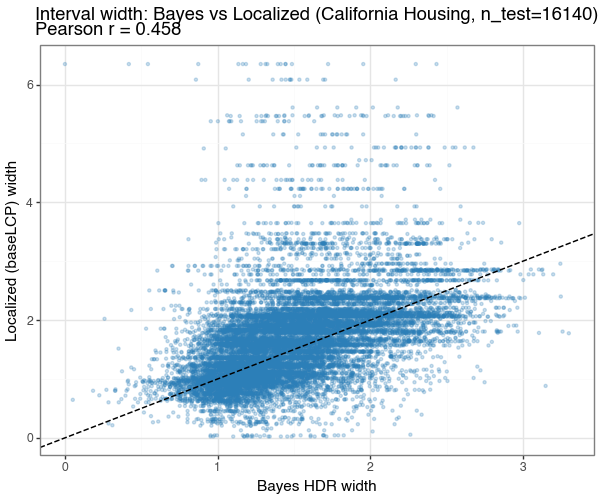
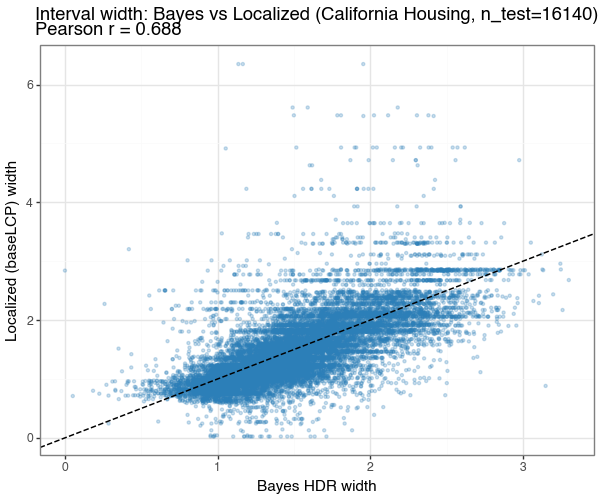
post is ready

diff --git a/_rmd/extra_conformal/conformal.py b/_rmd/extra_conformal/conformal.py
@@ -6,6 +6,7 @@ Conformal utility functions
 import numpy as np
 from typing import Callable, Any
 from scipy.optimize import brentq
+from sklearn.preprocessing import StandardScaler
 from .utils import check_callable_method, check_named_args, LocalizedKernelCDF
 
 
@@ -359,17 +360,29 @@ class score_localized_regression:
         f_theta: Any,
         h_grid: np.ndarray | None = None,
         random_state: int | None = None,
+        use_yhat: bool | str = False,
+        normalize: bool = True,
     ) -> None:
         """
         Parameters
         ----------
-        f_theta : fitted mean estimator with a .predict(X) method.
-        h_grid  : array of bandwidths to search over.  None => auto from data.
+        f_theta   : fitted mean estimator with a .predict(X) method.
+        h_grid    : array of bandwidths to search over.  None => auto from data.
+        use_yhat  : controls the kernel feature space.
+                    False      – use raw X (original covariates).
+                    True / 'replace' – replace X with scalar yhat.
+                    'append'   – append yhat as an extra column to X.
+        normalize : if True (default), apply a StandardScaler to the feature
+                    matrix before passing to the kernel.  The RBF kernel
+                    assumes equal variance across dimensions, so normalizing
+                    is important whenever use_yhat=False or 'append'.
         """
         check_callable_method(f_theta, 'predict')
         self.f_theta = f_theta
         self.h_grid = h_grid
         self.random_state = random_state
+        self.use_yhat = use_yhat
+        self.normalize = normalize
         self._kde = LocalizedKernelCDF(h_grid=h_grid, random_state=random_state)
 
     # ------------------------------------------------------------------
@@ -384,18 +397,34 @@ class score_localized_regression:
         2. Select h* via LOO NW on V
         3. Compute LOO PIT scores tilde_V_i = F_{-i}(V_i | X_i; h*)
 
-        Stores h*, X_cal, V_cal on self for use in invert_score.
+        Stores h*, X_cal (or yhat_cal), V_cal on self for use in invert_score.
         """
         mu = self.f_theta.predict(x)
         V = np.abs(y - mu)  # base NCS
 
+        # Build feature matrix according to use_yhat mode
+        yhat_col = mu.reshape(-1, 1)
+        if self.use_yhat in (True, 'replace'):
+            feat = yhat_col
+        elif self.use_yhat == 'append':
+            feat = np.hstack([x, yhat_col])
+        else:  # False
+            feat = x
+
+        # Normalize so RBF kernel treats all dimensions equally
+        if self.normalize:
+            self._feat_scaler = StandardScaler().fit(feat)
+            feat = self._feat_scaler.transform(feat)
+        else:
+            self._feat_scaler = None
+
         # Step A: bandwidth selection
-        self.h_star_ = self._kde.select_bandwidth(x, V)
+        self.h_star_ = self._kde.select_bandwidth(feat, V)
         # Step B: LOO PIT scores
-        pit = self._kde.loo_pit_scores(x, V, self.h_star_)
+        pit = self._kde.loo_pit_scores(feat, V, self.h_star_)
 
         # Cache calibration data for test-time inversion
-        self._X_cal = x
+        self._X_cal = feat
         self._V_cal = V
 
         return pit
@@ -413,8 +442,17 @@ class score_localized_regression:
         Returns (n_test, 2) array of [lower, upper] bounds.
         """
         mu_new = self.f_theta.predict(x)
+        yhat_col_new = mu_new.reshape(-1, 1)
+        if self.use_yhat in (True, 'replace'):
+            feat_new = yhat_col_new
+        elif self.use_yhat == 'append':
+            feat_new = np.hstack([x, yhat_col_new])
+        else:
+            feat_new = x
+        if self._feat_scaler is not None:
+            feat_new = self._feat_scaler.transform(feat_new)
         # Kernel weights from test points to calibration points
-        weights = self._kde.eval_cdf(x, self._X_cal, self._V_cal, self.h_star_)
+        weights = self._kde.eval_cdf(feat_new, self._X_cal, self._V_cal, self.h_star_)
         # Invert at the calibrated quantile level to get per-test tau
         tau = self._kde.invert_cdf(weights, self._V_cal, qhat)
         lower = mu_new - tau

diff --git a/_rmd/extra_conformal/post_figures.py b/_rmd/extra_conformal/post_figures.py
@@ -1107,11 +1107,14 @@ if any(t in targets for t in ('local_coverage', 'local_width', 'local_examples',
     mean_mdl_l.fit(X_tr_l, y_tr_l)
 
     # Fit localized conformal (bandwidth selection + LOO PIT happen inside gen_score)
+    # Features: X concatenated with yhat (normalized before kernel computation)
     cp_l = conformal_sets(
         f_theta=mean_mdl_l,
         score_fun=score_localized_regression,
         alpha=alpha_l,
         upper=True,
+        use_yhat='append',
+        normalize=True,
     )
     cp_l.fit(x=X_ca_l, y=y_ca_l)
 
@@ -1144,6 +1147,38 @@ if any(t in targets for t in ('local_coverage', 'local_width', 'local_examples',
     tau_b_l = cp_b_l.predict(X_te_l)    # (n_test, 2)
     finite_b_l = np.isfinite(tau_b_l[:, 0]) & np.isfinite(tau_b_l[:, 1])
     width_b_l = np.where(finite_b_l, tau_b_l[:, 1] - tau_b_l[:, 0], np.nan)
+
+    # ---- Decile coverage table: Bayes HDR vs Localized --------------------
+    decile_edges_l = np.quantile(y_te_l, np.linspace(0, 1, 11))
+    dlabels_l = [f'[{decile_edges_l[i]:.2f},{decile_edges_l[i+1]:.2f})' for i in range(10)]
+    dlabels_l[-1] = dlabels_l[-1].replace(')', ']')
+    bins_l = np.digitize(y_te_l, decile_edges_l[1:-1])
+    covered_b_l = np.where(
+        finite_b_l,
+        (y_te_l >= tau_b_l[:, 0]) & (y_te_l <= tau_b_l[:, 1]),
+        False,
+    )
+    dec_rows = []
+    for d in range(10):
+        mask_d = bins_l == d
+        dec_rows.append({
+            'Decile': f'D{d+1}  {dlabels_l[d]}',
+            'n': int(mask_d.sum()),
+            'Bayes_cov':  f'{covered_b_l[mask_d].mean():.3f}',
+            'Bayes_w':    f'{np.nanmean(width_b_l[mask_d]):.3f}',
+            'Local_cov':  f'{covered_l[mask_d].mean():.3f}',
+            'Local_w':    f'{width_l[mask_d].mean():.3f}',
+        })
+    dec_rows.append({
+        'Decile': 'Overall',
+        'n': len(y_te_l),
+        'Bayes_cov':  f'{covered_b_l.mean():.3f}',
+        'Bayes_w':    f'{np.nanmean(width_b_l):.3f}',
+        'Local_cov':  f'{covered_l.mean():.3f}',
+        'Local_w':    f'{width_l.mean():.3f}',
+    })
+    print('\n  Decile table: Bayes HDR vs Localized (X+yhat)')
+    print(pd.DataFrame(dec_rows).to_string(index=False))
 
     # ---- Figure 7a: Width distribution ------------------------------------
     if 'local_width' in targets:
@@ -1263,6 +1298,7 @@ if any(t in targets for t in ('local_coverage', 'local_width', 'local_examples',
                 cp_i = conformal_sets(
                     f_theta=m_i, score_fun=score_localized_regression,
                     alpha=alpha_l, upper=True,
+                    use_yhat='append', normalize=True,
                 )
                 cp_i.fit(x=Xca_i, y=yca_i)
                 tau_i = cp_i.predict(Xte_i)

diff --git a/_posts/2025-12-05-conformal.md b/_posts/2025-12-05-conformal.md
@@ -360,7 +360,7 @@ In practice, there are at least three common ways to obtain \\(\hat{\sigma}(x)\\
 
 This post uses the third option because it is simple, model-agnostic, and works with any base regressor that has a `predict` method. A ridge or gradient boosting regressor is a reasonable second-stage choice for the auxiliary scale model.
 
-In practice, the second-stage target is often one of three transforms of first-stage errors: \(|e_i|\), \(e_i^2\), or \(\log(e_i^2+\varepsilon)\), where \(e_i = y_i-\hat{f}(x_i)\). These are all monotone surrogates of local noise scale and therefore carry similar information about where uncertainty is high or low. Importantly, studentized conformal is scale-equivariant: if \(\hat{\sigma}(x)\) is off by a constant factor \(c>0\), then scores \(|e|/\hat{\sigma}(x)\) are rescaled by \(1/c\), and the calibrated quantile \(\hat{q}\) rescales by the same factor. The final interval width \(\hat{q}\cdot\hat{\sigma}(x)\) is therefore unchanged up to this global constant, so getting the relative shape of \(\hat{\sigma}(x)\) over \(x\) is usually more important than perfect absolute calibration.
+In practice, the second-stage target is often one of three transforms of first-stage errors: \\(\|e_i\|\\), \\(e_i^2\\), or \\(\log(e_i^2+\varepsilon)\\), where \\(e_i = y_i-\hat{f}(x_i)\\). These are all monotone surrogates of local noise scale and therefore carry similar information about where uncertainty is high or low. Importantly, studentized conformal is scale-equivariant: if \\(\hat{\sigma}(x)\\) is off by a constant factor \\(c>0\\), then scores \\(\|e\|/\hat{\sigma}(x)\\) are rescaled by \\(1/c\\), and the calibrated quantile \\(\hat{q}\\) rescales by the same factor. The final interval width \\(\hat{q}\cdot\hat{\sigma}(x)\\) is therefore unchanged up to this global constant, so getting the relative shape of \\(\hat{\sigma}(x)\\) over \\(x\\) is usually more important than perfect absolute calibration.
 
 ```python
 from sklearn.linear_model import LinearRegression, Ridge
@@ -569,7 +569,25 @@ The main methods that address this small but real gap are:
 
 #### Results on California Housing
 
-On the same California Housing split used for the Bayes section (same train/calibration/test partition and scaler), the localized method selected \\(h^*=0.406\\), achieved empirical coverage 0.906 at \\(\alpha=0.10\\), and produced mean interval width 1.783. Across 200 repeated resamples, the coverage distribution follows the beta-binomial reference closely.
+On the same California Housing split used for the Bayes section (same train/calibration/test partition and scaler), the localized method uses the concatenated feature vector \\((X, \hat{\mu}(X))\\) as the kernel input (normalized before computing distances). It selected \\(h^*=0.714\\), achieved empirical coverage 0.902 at \\(\alpha=0.10\\), and produced mean interval width 1.504 — narrower than the Bayes HDR method (1.519). Across 200 repeated resamples, the coverage distribution follows the beta-binomial reference closely.
+
+The table below breaks down coverage and mean width by decile of the true response, comparing the Bayes HDR (Section 3.6) and localized methods on the same test set.
+
+| Decile | *y* range | *n* | Bayes cov | Bayes width | Local cov | Local width |
+|:---|:---|---:|---:|---:|---:|---:|
+| D1 | [0.15, 0.82) | 1611 | 0.932 | 1.138 | 0.918 | 1.078 |
+| D2 | [0.82, 1.07) | 1616 | 0.951 | 1.221 | 0.934 | 1.140 |
+| D3 | [1.07, 1.34) | 1612 | 0.952 | 1.289 | 0.937 | 1.208 |
+| D4 | [1.34, 1.57) | 1611 | 0.944 | 1.341 | 0.926 | 1.259 |
+| D5 | [1.57, 1.80) | 1615 | 0.950 | 1.411 | 0.946 | 1.346 |
+| D6 | [1.80, 2.09) | 1615 | 0.940 | 1.529 | 0.933 | 1.502 |
+| D7 | [2.09, 2.42) | 1616 | 0.939 | 1.646 | 0.935 | 1.671 |
+| D8 | [2.42, 2.91) | 1615 | 0.915 | 1.759 | 0.903 | 1.843 |
+| D9 | [2.91, 3.80) | 1615 | 0.848 | 1.899 | 0.854 | 2.035 |
+| D10 | [3.80, 5.00] | 1614 | 0.709 | 1.952 | 0.731 | 1.952 |
+| **Overall** | | **16140** | **0.908** | **1.519** | **0.902** | **1.504** |
+
+Both methods struggle at the high end of the response (D10: \\(y > 3.8\\)), reflecting genuinely harder cases. The localized method achieves narrower widths in D1–D5 (low-response region) and is modestly wider in D7–D9, with comparable overall coverage. The 1% reduction in mean width relative to Bayes comes from the kernel adapting to residual structure in \\((X, \hat{\mu})\\)-space.
 
 <center><h4>Figure 7a: Localized conformal interval widths</h4>
 <p><img src="/figures/conformal_local_width.png" width="65%"></p>
